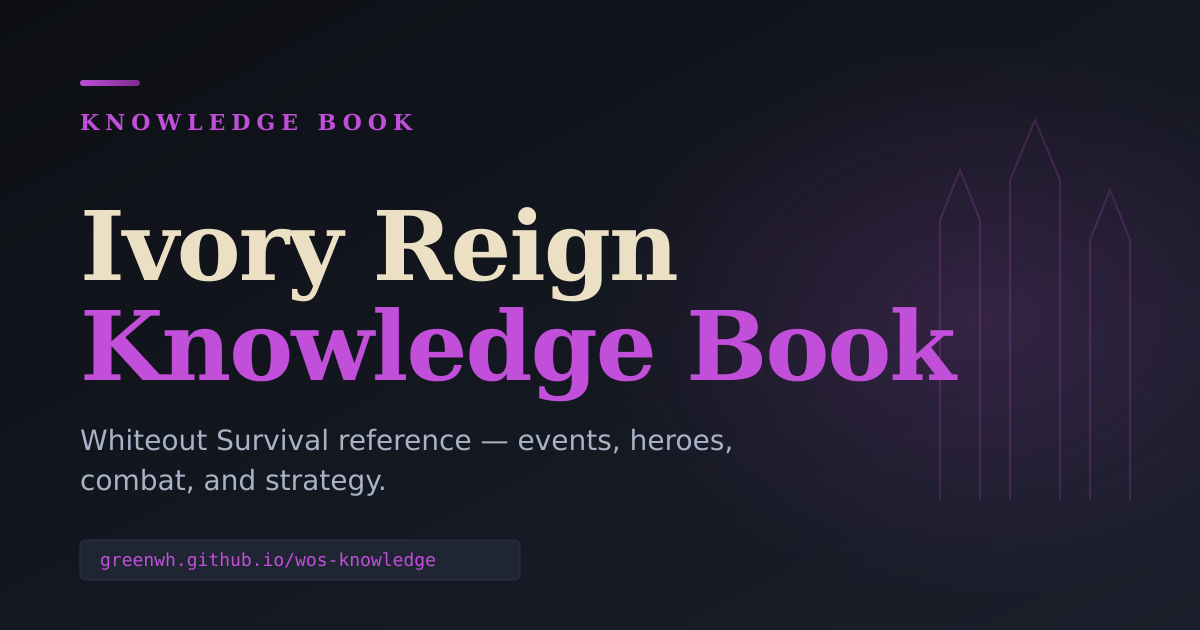
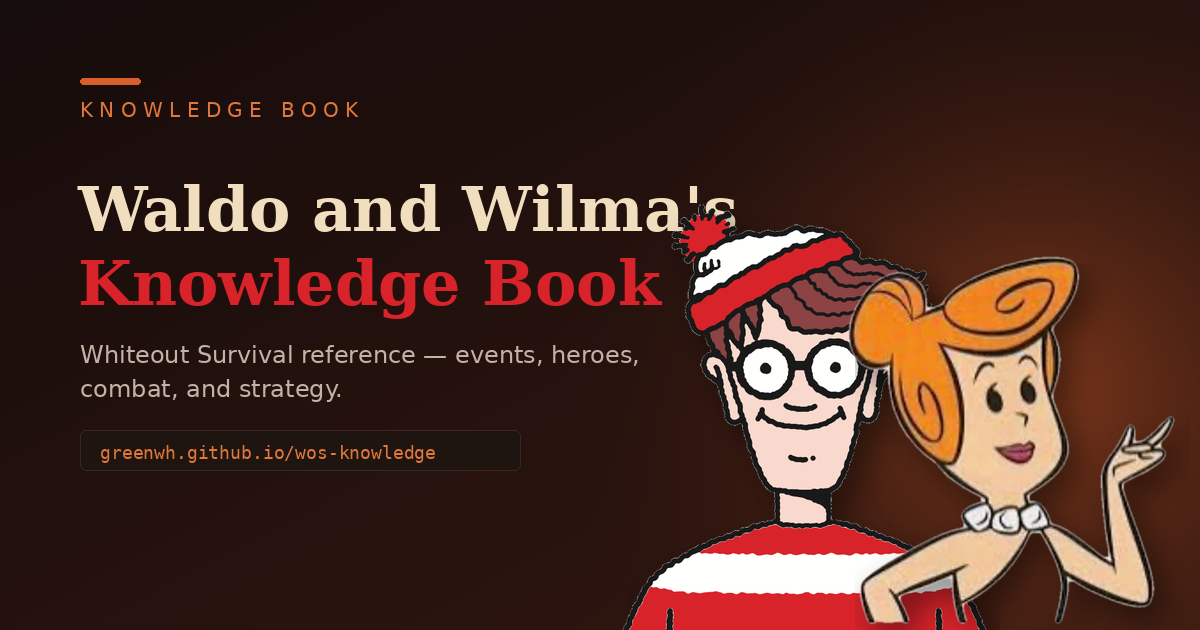
Rebrand site to Waldo and Wilma's Knowledge Book
Replaces the purple/lavender Ivory Reign theme with a red/orange scheme
built around the site's mascots. Brand color shifts from lavender
(#c14fd9) to Waldo red (#d8232a), with Wilma orange (#e0782c) as the
secondary accent; dark canvas tokens move from cool blue-black to warm
near-black to match.

- New hero.jpg: Waldo and Wilma composited on a warm gradient, replacing
  the gothic ivory-castle ivr.jpg
- Nav logo, favicon, apple-touch-icon, and PWA icons all regenerated from
  waldo.PNG
- New og-image.png/.svg with updated title, colors, and mascot art
- Site title, hero name, manifest name, and footer message updated to
  "Waldo and Wilma's Knowledge Book"
- theme-color / background_color updated to match the new dark palette

Content pages and the Ivory Reign alliance references in body copy are
untouched — this is a chrome/branding-level change only.

diff --git a/docs/.vitepress/theme/custom.css b/docs/.vitepress/theme/custom.css
@@ -1,22 +1,25 @@
-/* Ivory Reign Knowledge Book — brand tokens (purple/lavender + ivory theme) */
+/* Waldo and Wilma's Knowledge Book — brand tokens (red/orange + warm-cream theme) */
 
 :root {
   /* Brand colors — apply to both light and dark modes */
-  --vp-c-brand-1: #c14fd9;          /* lavender-purple, from banner.png ribbon */
-  --vp-c-brand-2: #a238b8;
-  --vp-c-brand-3: #7c2a8f;
-  --vp-c-brand-soft: rgba(193, 79, 217, 0.14);
+  --vp-c-brand-1: #d8232a;          /* Waldo sweater red */
+  --vp-c-brand-2: #b91c23;
+  --vp-c-brand-3: #8a151a;
+  --vp-c-brand-soft: rgba(216, 35, 42, 0.14);
 
-  /* Ivory accent — secondary tone, used for the hero name and select highlights */
-  --bb-ivory: #ece0c4;
+  /* Warm cream accent — secondary tone, used for the hero name and select highlights */
+  --bb-cream: #f0dec2;
+
+  /* Wilma orange — secondary brand tone, used for info callouts and select accents */
+  --bb-orange: #e0782c;
 
   /* Typography — Georgia serif headings (carry from SvS guide) */
   --vp-font-family-base: -apple-system, BlinkMacSystemFont, 'Segoe UI', Roboto, sans-serif;
   --vp-font-family-mono: ui-monospace, SFMono-Regular, 'SF Mono', Menlo, Consolas, monospace;
 
   /* Callout palette — info/tip/warn/danger */
-  --bb-callout-info: #c14fd9;
-  --bb-callout-info-bg: rgba(193, 79, 217, 0.10);
+  --bb-callout-info: #e0782c;
+  --bb-callout-info-bg: rgba(224, 120, 44, 0.10);
   --bb-callout-tip: #5ce88a;
   --bb-callout-tip-bg: rgba(92, 232, 138, 0.10);
   --bb-callout-warn: #f5b342;
@@ -41,7 +44,7 @@
   --bb-freq-daily: #5ce88a;
   --bb-freq-weekly: #5cc4e8;
   --bb-freq-biweekly: #f5b342;
-  --bb-freq-monthly: #c98ce8;
+  --bb-freq-monthly: #c9a15c;
   --bb-freq-yearly: #ff8a5c;
   --bb-freq-other: #a8b3c7;
 }
@@ -54,17 +57,17 @@
  * effect even though the canvas was dark.
  */
 .dark {
-  --vp-c-bg: #0d0f14;
-  --vp-c-bg-alt: #131720;
-  --vp-c-bg-soft: #1a1f2b;
-  --vp-c-bg-elv: #1f2533;
+  --vp-c-bg: #170f0d;
+  --vp-c-bg-alt: #1e1512;
+  --vp-c-bg-soft: #251a15;
+  --vp-c-bg-elv: #2c1f19;
 
-  --vp-c-text-1: #e8edf5;
-  --vp-c-text-2: #a8b3c7;
-  --vp-c-text-3: #6b7689;
+  --vp-c-text-1: #f3ece5;
+  --vp-c-text-2: #b8ab9f;
+  --vp-c-text-3: #7a6d64;
 
-  --vp-c-divider: #242a38;
-  --vp-c-border: #2c3344;
+  --vp-c-divider: #2e2019;
+  --vp-c-border: #3a281f;
 }
 
 /* Headings use Georgia serif to match SvS guide */
@@ -83,7 +86,7 @@ h1 {
 /* Custom callout colors used throughout content */
 .tip-block {
   border-left: 4px solid var(--vp-c-brand-1);
-  background: rgba(193, 79, 217, 0.08);
+  background: rgba(216, 35, 42, 0.08);
   padding: 1rem 1.25rem;
   border-radius: 6px;
   margin: 1.5rem 0;
@@ -105,7 +108,7 @@ h1 {
   margin: 1.5rem 0;
 }
 
-/* Hero image: expand from VitePress default to better show the 3:2 ivr.jpg */
+/* Hero image: expand from VitePress default to better show the 3:2 hero.jpg */
 .VPHero .image-container {
   overflow: visible !important;
 }
@@ -117,13 +120,13 @@ h1 {
 .VPHero .image-src {
   max-width: 320px !important;
   border-radius: 10px;
-  box-shadow: 0 4px 40px rgba(193, 79, 217, 0.18);
+  box-shadow: 0 4px 40px rgba(216, 35, 42, 0.18);
 }
 
-/* Hero name ("Ivory Reign") rendered in the ivory accent tone; the .text
-   line ("Knowledge Book") keeps the default heading color */
+/* Hero name ("Waldo and Wilma's") rendered in the warm cream accent tone; the
+   .text line ("Knowledge Book") keeps the default heading color */
 .VPHero .name {
-  color: var(--bb-ivory);
+  color: var(--bb-cream);
 }
 
 @media (min-width: 640px) {
@@ -175,7 +178,7 @@ h1 {
   color: var(--bb-freq-monthly);
 }
 .VPHero .actions .action:nth-child(6) .VPButton:hover {
-  background-color: rgba(201, 140, 232, 0.10);
+  background-color: rgba(201, 161, 92, 0.10);
 }
 
 /* Tighten table padding for mobile */

diff --git a/docs/.vitepress/config.ts b/docs/.vitepress/config.ts
@@ -1,7 +1,7 @@
 import { defineConfig } from 'vitepress'
 
 export default defineConfig({
-  title: 'Ivory Reign Knowledge Book',
+  title: "Waldo and Wilma's Knowledge Book",
   description: 'Whiteout Survival reference for Ivory Reign — events, heroes, combat, and strategy.',
   base: '/wos-knowledge/',
   lastUpdated: true,
@@ -13,25 +13,25 @@ export default defineConfig({
     ['link', { rel: 'icon', type: 'image/png', href: '/wos-knowledge/icons/favicon.png' }],
     ['link', { rel: 'manifest', href: '/wos-knowledge/manifest.webmanifest' }],
     ['link', { rel: 'apple-touch-icon', sizes: '180x180', href: '/wos-knowledge/icons/apple-touch-icon.png' }],
-    ['meta', { name: 'theme-color', content: '#0d0f14' }],
+    ['meta', { name: 'theme-color', content: '#170f0d' }],
     ['meta', { name: 'robots', content: 'index,follow' }],
     ['meta', { property: 'og:type', content: 'website' }],
-    ['meta', { property: 'og:title', content: 'Ivory Reign Knowledge Book' }],
+    ['meta', { property: 'og:title', content: "Waldo and Wilma's Knowledge Book" }],
     ['meta', { property: 'og:description', content: 'Whiteout Survival reference — events, heroes, combat, and strategy.' }],
     ['meta', { property: 'og:url', content: 'https://greenwh.github.io/wos-knowledge/' }],
     ['meta', { property: 'og:image', content: 'https://greenwh.github.io/wos-knowledge/og-image.png' }],
     ['meta', { property: 'og:image:type', content: 'image/png' }],
     ['meta', { property: 'og:image:width', content: '1200' }],
     ['meta', { property: 'og:image:height', content: '630' }],
-    ['meta', { property: 'og:image:alt', content: 'Ivory Reign Knowledge Book — Whiteout Survival reference for Ivory Reign' }],
+    ['meta', { property: 'og:image:alt', content: "Waldo and Wilma's Knowledge Book — Whiteout Survival reference for Ivory Reign" }],
     ['meta', { name: 'twitter:card', content: 'summary_large_image' }],
-    ['meta', { name: 'twitter:title', content: 'Ivory Reign Knowledge Book' }],
+    ['meta', { name: 'twitter:title', content: "Waldo and Wilma's Knowledge Book" }],
     ['meta', { name: 'twitter:description', content: 'Whiteout Survival reference — events, heroes, combat, and strategy.' }],
     ['meta', { name: 'twitter:image', content: 'https://greenwh.github.io/wos-knowledge/og-image.png' }],
   ],
 
   themeConfig: {
-    logo: { src: '/banner.png', alt: 'Ivory Reign' },
+    logo: { src: '/banner.png', alt: 'Waldo' },
     siteTitle: 'Knowledge Book',
 
     nav: [
@@ -208,7 +208,7 @@ export default defineConfig({
     },
 
     footer: {
-      message: 'Ivory Reign Knowledge Book · Whiteout Survival reference · Best information available — verify against in-game changes.',
+      message: "Waldo and Wilma's Knowledge Book · Whiteout Survival reference · Best information available — verify against in-game changes.",
       copyright: 'Built with VitePress · Hosted on GitHub Pages',
     },
 

diff --git a/docs/index.md b/docs/index.md
@@ -1,15 +1,15 @@
 ---
-title: Ivory Reign Knowledge Book
+title: Waldo and Wilma's Knowledge Book
 description: Whiteout Survival reference for Ivory Reign — events, heroes, combat, and strategy.
 layout: home
 
 hero:
-  name: Ivory Reign
+  name: Waldo and Wilma's
   text: Knowledge Book
   tagline: A reference manual for Whiteout Survival players. Events, heroes, combat, and strategy — verified, mobile-first, and updated.
   image:
-    src: /ivr.jpg
-    alt: Ivory Reign — a gothic ivory castle beneath purple banners
+    src: /hero.jpg
+    alt: Waldo and Wilma, the site's mascots
   actions:
     - theme: brand
       text: Browse Events
